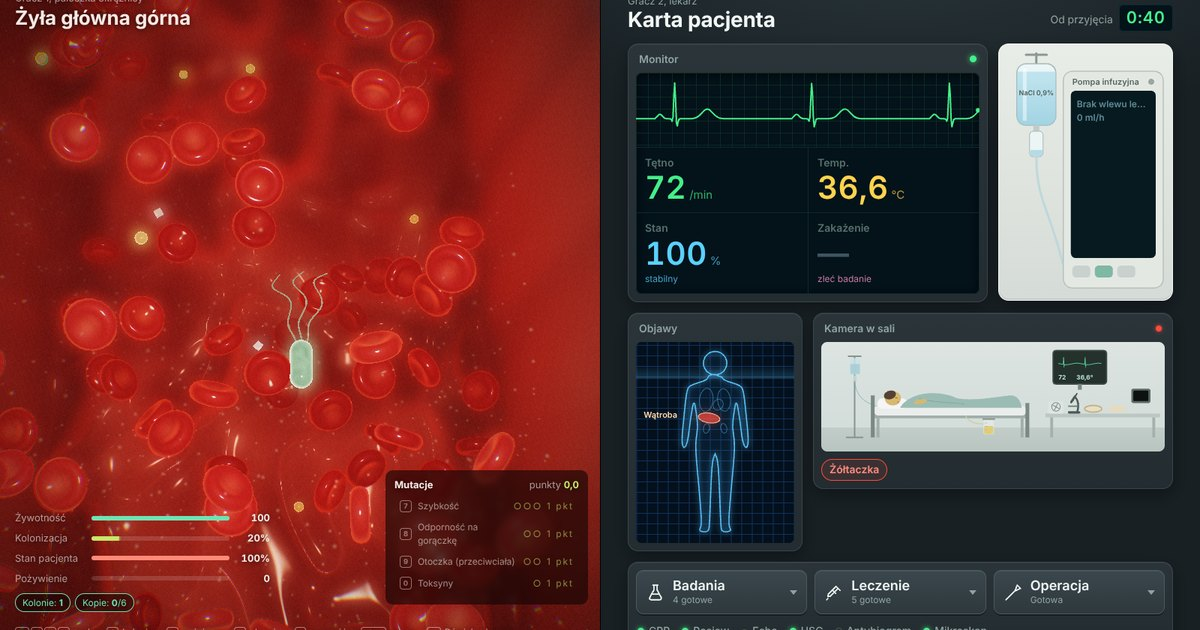
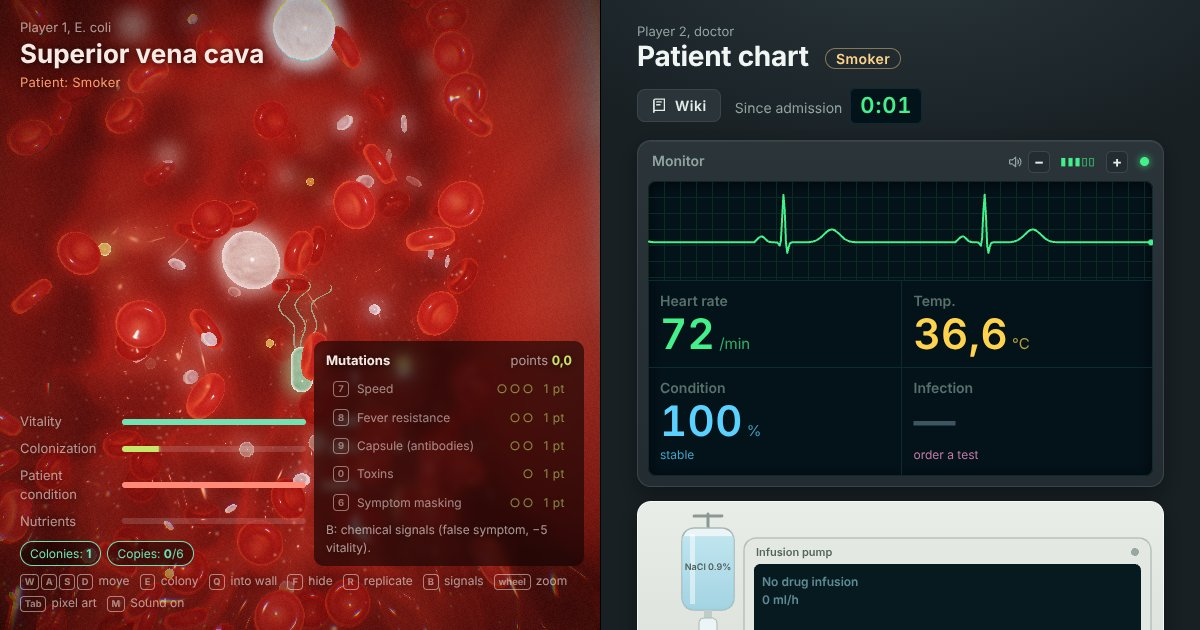
v0.47.1: SEO po angielsku
Metadane, Open Graph, dane strukturalne i obrazek podglądu po angielsku; polski tytuł karty przy języku polskim.

Claude-Session: https://claude.ai/code/session_01KwGVgLkh3CVMnswV633ZNY

diff --git a/index.html b/index.html
@@ -1,11 +1,11 @@
 <!doctype html>
-<html lang="pl">
+<html lang="en">
 <head>
 <meta charset="utf-8">
 <meta name="viewport" content="width=device-width, initial-scale=1, viewport-fit=cover">
-<title>Patient Zero — gra przeglądarkowa: patogen kontra lekarz</title>
-<meta name="description" content="Patient Zero to darmowa gra przeglądarkowa na 2 osoby: bakteria albo wirus płynie z krwią przez serce, wątrobę i nerkę, a lekarz na OIOM-ie stawia diagnozę badaniami i leczy. Biologia i medycyna w grze, multiplayer przez WebRTC.">
-<meta name="keywords" content="Patient Zero, gra, game, biology, biologia, medicine, medycyna, doctor, lekarz, hospital, hospitality, szpital, pathogen, patogen, bakteria, wirus, virus, bacteria, gra przeglądarkowa, browser game, multiplayer, WebRTC, Three.js, vibecoding">
+<title>Patient Zero — browser game: pathogen vs doctor</title>
+<meta name="description" content="Patient Zero is a free 2-player browser game: a bacterium, virus, fungus or cancer cell travels with the blood through the heart, liver and kidney, while an ICU doctor runs tests, makes a diagnosis and treats the patient. Biology and medicine as a game, multiplayer over WebRTC, in English and Polish.">
+<meta name="keywords" content="Patient Zero, game, browser game, biology, medicine, doctor, hospital, hospitality, ICU, pathogen, bacteria, virus, fungus, cancer, diagnosis, educational game, multiplayer, 2 players, WebRTC, Three.js, vibecoding">
 <meta name="author" content="Michał Stankiewicz">
 <meta name="robots" content="index, follow">
 <meta name="theme-color" content="#2a0709">
@@ -13,16 +13,17 @@
 <link rel="icon" type="image/svg+xml" href="img/icon.svg">
 <meta property="og:type" content="website">
 <meta property="og:site_name" content="Patient Zero">
-<meta property="og:title" content="Patient Zero — patogen kontra lekarz">
-<meta property="og:description" content="Asymetryczna gra na 2 osoby w przeglądarce: patogen w układzie krążenia kontra lekarz przy aparaturze OIOM-u.">
+<meta property="og:title" content="Patient Zero — pathogen vs doctor">
+<meta property="og:description" content="An asymmetric 2-player browser game: a pathogen in the bloodstream versus a doctor at the ICU monitors.">
 <meta property="og:url" content="https://michalstankiewicz4-cell.github.io/PatientZero/">
 <meta property="og:image" content="https://michalstankiewicz4-cell.github.io/PatientZero/img/og.jpg">
 <meta property="og:image:width" content="1200">
 <meta property="og:image:height" content="630">
-<meta property="og:locale" content="pl_PL">
+<meta property="og:locale" content="en_US">
+<meta property="og:locale:alternate" content="pl_PL">
 <meta name="twitter:card" content="summary_large_image">
-<meta name="twitter:title" content="Patient Zero — patogen kontra lekarz">
-<meta name="twitter:description" content="Gra przeglądarkowa na 2 osoby: biologia, medycyna i WebRTC.">
+<meta name="twitter:title" content="Patient Zero — pathogen vs doctor">
+<meta name="twitter:description" content="A 2-player browser game about biology and medicine, played over WebRTC.">
 <meta name="twitter:image" content="https://michalstankiewicz4-cell.github.io/PatientZero/img/og.jpg">
 <script type="application/ld+json">
 {
@@ -31,12 +32,12 @@
   "name": "Patient Zero",
   "url": "https://michalstankiewicz4-cell.github.io/PatientZero/",
   "image": "https://michalstankiewicz4-cell.github.io/PatientZero/img/og.jpg",
-  "description": "Asymetryczna gra przeglądarkowa na 2 osoby: patogen (bakteria albo wirus) w układzie krążenia pacjenta kontra lekarz, który diagnozuje i leczy.",
+  "description": "An asymmetric 2-player browser game: a pathogen (bacterium, virus, fungus or cancer cell) in the patient's bloodstream versus a doctor who diagnoses and treats.",
   "genre": ["Strategy", "Simulation", "Educational"],
   "gamePlatform": "Web browser",
   "applicationCategory": "Game",
   "playMode": ["MultiPlayer", "SinglePlayer"],
-  "inLanguage": "pl",
+  "inLanguage": ["en", "pl"],
   "isAccessibleForFree": true,
   "keywords": "biology, doctor, game, hospitality, medicine, vibecoding, webrtc",
   "author": { "@type": "Person", "name": "Michał Stankiewicz" },
@@ -46,7 +47,7 @@
 <link rel="preconnect" href="https://fonts.googleapis.com">
 <link rel="preconnect" href="https://fonts.gstatic.com" crossorigin>
 <link rel="stylesheet" href="https://fonts.googleapis.com/css2?family=Atkinson+Hyperlegible:ital,wght@0,400;0,700;1,400&family=Barlow+Semi+Condensed:wght@500;600;700&display=swap">
-<link rel="stylesheet" href="css/style.css?v=0.47.0">
+<link rel="stylesheet" href="css/style.css?v=0.47.1">
 </head>
 <body>
 <!-- ekran ładowania: widoczny od razu, znika po zbudowaniu serca i sceny (main.js) -->
@@ -574,33 +575,33 @@
 </div>
 
 <script src="https://cdnjs.cloudflare.com/ajax/libs/three.js/r128/three.min.js"></script>
-<script src="js/version.js?v=0.47.0"></script>
-<script src="js/lang/en.js?v=0.47.0"></script>
-<script src="js/i18n.js?v=0.47.0"></script>
-<script src="js/config.js?v=0.47.0"></script>
-<script src="js/heart-shape.js?v=0.47.0"></script>
-<script src="js/flow.js?v=0.47.0"></script>
-<script src="js/tissue-cells.js?v=0.47.0"></script>
-<script src="js/state.js?v=0.47.0"></script>
-<script src="js/input.js?v=0.47.0"></script>
-<script src="js/render/glsl.js?v=0.47.0"></script>
-<script src="js/render/tissue.js?v=0.47.0"></script>
-<script src="js/render/cells.js?v=0.47.0"></script>
-<script src="js/render/actors.js?v=0.47.0"></script>
-<script src="js/render/post.js?v=0.47.0"></script>
-<script src="js/render/biome.js?v=0.47.0"></script>
-<script src="js/render/view.js?v=0.47.0"></script>
-<script src="js/minimap.js?v=0.47.0"></script>
-<script src="js/audio.js?v=0.47.0"></script>
-<script src="js/doctor-ui.js?v=0.47.0"></script>
-<script src="js/patient-room.js?v=0.47.0"></script>
-<script src="js/doctor-devices.js?v=0.47.0"></script>
-<script src="js/doctor-cam.js?v=0.47.0"></script>
-<script src="js/wiki.js?v=0.47.0"></script>
-<script src="js/net.js?v=0.47.0"></script>
-<script src="js/lobby.js?v=0.47.0"></script>
-<script src="js/match.js?v=0.47.0"></script>
-<script src="js/net-status.js?v=0.47.0"></script>
-<script src="js/main.js?v=0.47.0"></script>
+<script src="js/version.js?v=0.47.1"></script>
+<script src="js/lang/en.js?v=0.47.1"></script>
+<script src="js/i18n.js?v=0.47.1"></script>
+<script src="js/config.js?v=0.47.1"></script>
+<script src="js/heart-shape.js?v=0.47.1"></script>
+<script src="js/flow.js?v=0.47.1"></script>
+<script src="js/tissue-cells.js?v=0.47.1"></script>
+<script src="js/state.js?v=0.47.1"></script>
+<script src="js/input.js?v=0.47.1"></script>
+<script src="js/render/glsl.js?v=0.47.1"></script>
+<script src="js/render/tissue.js?v=0.47.1"></script>
+<script src="js/render/cells.js?v=0.47.1"></script>
+<script src="js/render/actors.js?v=0.47.1"></script>
+<script src="js/render/post.js?v=0.47.1"></script>
+<script src="js/render/biome.js?v=0.47.1"></script>
+<script src="js/render/view.js?v=0.47.1"></script>
+<script src="js/minimap.js?v=0.47.1"></script>
+<script src="js/audio.js?v=0.47.1"></script>
+<script src="js/doctor-ui.js?v=0.47.1"></script>
+<script src="js/patient-room.js?v=0.47.1"></script>
+<script src="js/doctor-devices.js?v=0.47.1"></script>
+<script src="js/doctor-cam.js?v=0.47.1"></script>
+<script src="js/wiki.js?v=0.47.1"></script>
+<script src="js/net.js?v=0.47.1"></script>
+<script src="js/lobby.js?v=0.47.1"></script>
+<script src="js/match.js?v=0.47.1"></script>
+<script src="js/net-status.js?v=0.47.1"></script>
+<script src="js/main.js?v=0.47.1"></script>
 </body>
 </html>

diff --git a/js/i18n.js b/js/i18n.js
@@ -37,7 +37,12 @@
       b.addEventListener('click', () => DD.setLang(b.dataset.lang));
     });
   });
-  if (lang === 'pl') return;
+  if (lang === 'pl') {
+    // strona jest opisana po angielsku (SEO); po polsku zmieniamy język dokumentu i tytuł karty
+    document.documentElement.lang = 'pl';
+    document.title = 'Patient Zero — gra przeglądarkowa: patogen kontra lekarz';
+    return;
+  }
 
   const LETTER = /[A-Za-ząćęłńóśźżĄĆĘŁŃÓŚŹŻ]/;
   const POLISH = /[ąćęłńóśźżĄĆĘŁŃÓŚŹŻ]/;
@@ -148,8 +153,6 @@
   }
 
   function start() {
-    document.documentElement.lang = 'en';
-    document.title = t(document.title);
     walk(document.body);
     new MutationObserver((list) => {
       for (const m of list) {

diff --git a/js/version.js b/js/version.js
@@ -1,4 +1,4 @@
 // Wersja gry (SemVer). Zmieniaj tylko przez: node tools/bump.js <wersja>
 // Skrypt aktualizuje też parametry ?v= w index.html, żeby przeglądarka nie brała starych plików z pamięci podręcznej.
 window.DD = window.DD || {};
-DD.VERSION = '0.47.0';
+DD.VERSION = '0.47.1';
